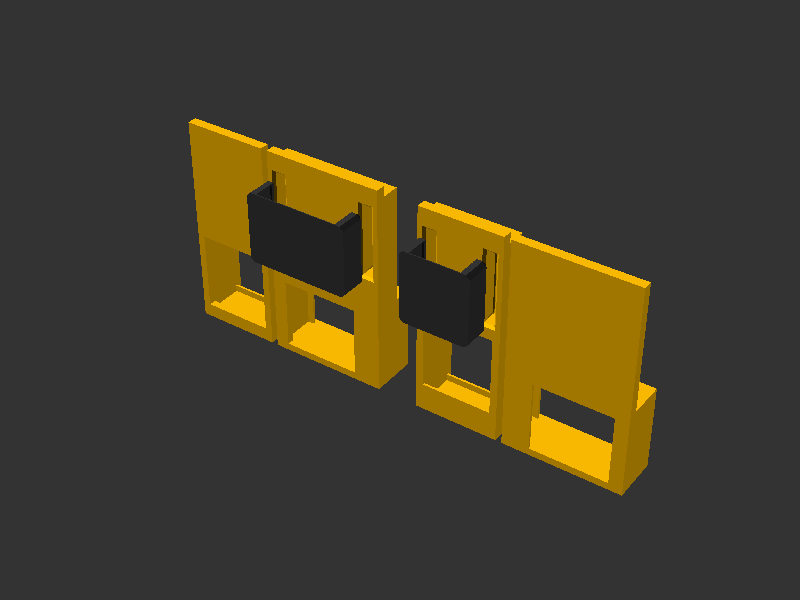
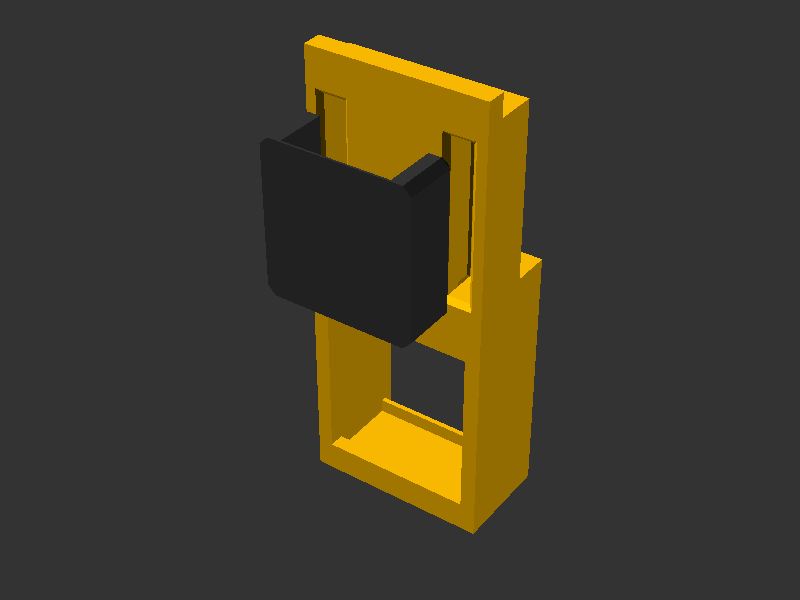
feat(keystone): add label_position above/below for label slots
Add a label_position parameter ("above" default, "below") to keystone_full,
keystone_demo_panel, and label_recess. "below" mirrors the label recess, hooks,
and plate to the underside of the jack so stacked rows can carry labels between
them. Default behavior is unchanged. Exposed in the keystone_sample part, covered
by the keystone test file, and shown with a new label-below catalog render.

Changed region(s): [[0.2188, 0.06, 0.8438, 0.9]]

diff --git a/models/keystone/README.md b/models/keystone/README.md
@@ -12,6 +12,7 @@ Keystone jacks are the universal standard for structured cabling (Ethernet, HDMI
 
 - **Rotation support** (0°, 90°, 180°, 270°) — mount keystones vertically or horizontally depending on panel layout and density needs.
 - **Label system** — snap-fit label plates identify ports without adhesive labels that peel off or "hard"-printed labels.
+- **Label above or below** — place the label slot on either side of the jack (`label_position`), so stacked rows can carry labels between them without overlapping the jack opening above.
 - **Tolerance-aware** — `additional_tolerance` parameter adjusts fit for different printers/materials. (untested. I haven't had the need to diverge yet. So use with caution)
 
 ## 🔧 How
@@ -35,6 +36,7 @@ Open `parts/keystone_sample.scad` in OpenSCAD and use the **Customizer** panel.
 | `yrotation` | `0` | Y-axis rotation in single mode (0, 90, 180, 270) |
 | `panel_depth` | `9.75` | Depth of the panel being cut into (mm). Increase for thicker panels. |
 | `show_labels` | `true` | Show label plates on keystones |
+| `label_position` | `above` | Which side of the jack the label sits on: `above` or `below` |
 | `debug_colors` | `false` | Distinct colors per section for debugging |
 
 ### Library Usage
@@ -61,7 +63,7 @@ cuboid([50, 2, 50]) {
 | `label_recess()` | Front-face recess for label hook snap-fit |
 | `keystone_demo_panel()` | Demo panel strip with one keystone mounted |
 
-`keystone_full()` and `keystone_demo_panel()` accept `label_plate_mode` (`"assembly"` or `"plate"`) and `label_plate_gap` (mm) to control label plate placement for build-plate layouts.
+`keystone_full()` and `keystone_demo_panel()` accept `label_plate_mode` (`"assembly"` or `"plate"`) and `label_plate_gap` (mm) to control label plate placement for build-plate layouts. They also accept `label_position` (`"above"` or `"below"`) to mirror the label slot to either side of the jack.
 
 ### Key Functions
 
@@ -79,11 +81,13 @@ cuboid([50, 2, 50]) {
 | Part | Preview |
 |------|---------|
 | Keystone Sample | ![Keystone Sample](parts/renders/keystone_sample.png) |
+| Label Below | ![Label Below](parts/renders/keystone_sample_below.png) |
 
 To generate or refresh previews:
 
 ```sh
 scadm export-png models/keystone/parts/keystone_sample.scad
+scadm export-png models/keystone/parts/keystone_sample.scad -p models/keystone/parts/keystone_sample_below.json -P label_below --output models/keystone/parts/renders/keystone_sample_below.png
 ```
 
 ## 📚 References

diff --git a/models/README.md b/models/README.md
@@ -61,7 +61,7 @@ See [panel/README.md](panel/README.md) for details.
 
 ### 🔌 Keystone
 
-Parametric keystone jack socket module for integrating standard keystone connectors into virtually any panels (using BOSL2 `diff("keystone")`). Supports 4 rotation angles and includes snap-fit label plate slots for port identification.
+Parametric keystone jack socket module for integrating standard keystone connectors into virtually any panels (using BOSL2 `diff("keystone")`). Supports 4 rotation angles and includes snap-fit label plate slots for port identification, mountable above or below the jack.
 
 ![Keystone Sample](./keystone/parts/renders/keystone_sample.png)
 